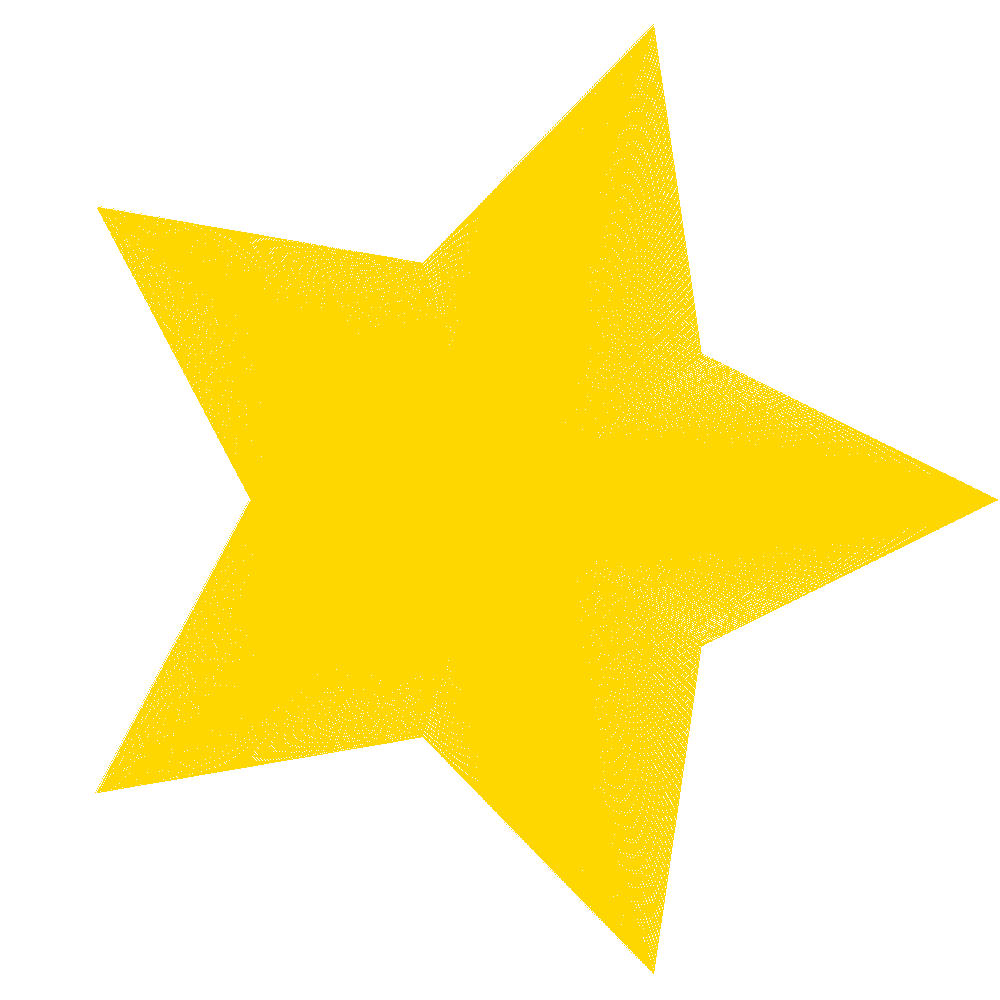
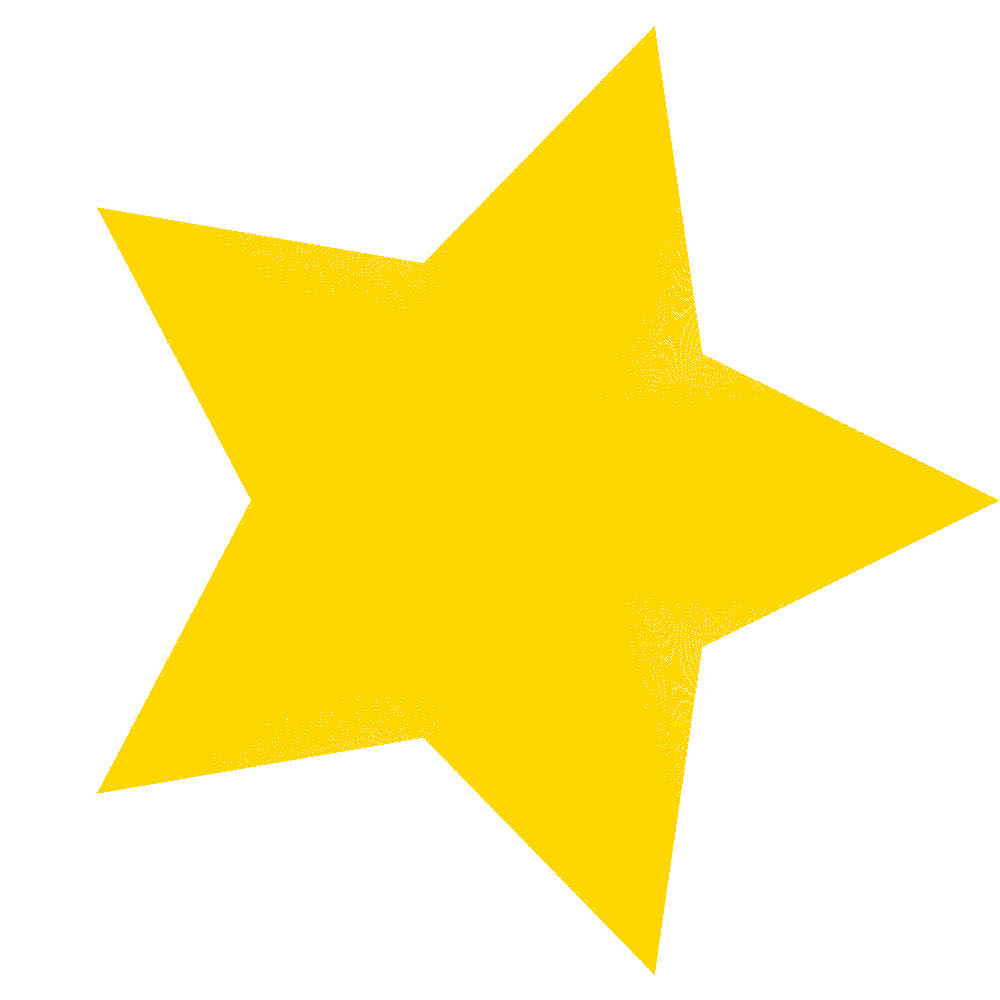
四捨五入する

diff --git a/main.go b/main.go
@@ -33,8 +33,9 @@ type Point struct {
 }
 
 type DrawPoint struct {
-	X int
-	Y int
+	X     int
+	Y     int
+	Color color.Color
 }
 
 func init() {
@@ -43,7 +44,7 @@ func init() {
 }
 
 // 2点を受け取ってその間の座標を返す
-func getCoordinates(x1, y1, x2, y2 float64) []DrawPoint {
+func getCoordinates(x1, y1, x2, y2 float64) []Point {
 	dx := x2 - x1
 	dy := y2 - y1
 
@@ -53,7 +54,7 @@ func getCoordinates(x1, y1, x2, y2 float64) []DrawPoint {
 	// ラジアン
 	radian := math.Atan2(dy, dx)
 
-	var points []DrawPoint
+	var points []Point
 	for l := 0.0; l < length; l++ {
 		// x座標とy座標を計算
 		x := x1 + l*math.Cos(radian)
@@ -61,7 +62,7 @@ func getCoordinates(x1, y1, x2, y2 float64) []DrawPoint {
 
 		// ビットマップ外の点は描写しない
 		if (x >= 0 && x < width) && (y >= 0 && y < height) {
-			points = append(points, DrawPoint{X: int(x), Y: int(y)})
+			points = append(points, Point{x, y})
 		}
 	}
 
@@ -124,6 +125,14 @@ func deleteDuplicate(old []DrawPoint) []DrawPoint {
 	return new
 }
 
+func convertPint2DrawPoint(points []Point, color color.Color) []DrawPoint {
+	var drawPoints []DrawPoint
+	for _, p := range points {
+		drawPoints = append(drawPoints, DrawPoint{int(math.Round(p.X)), int(math.Round(p.Y)), color})
+	}
+	return deleteDuplicate(drawPoints)
+}
+
 func main() {
 	m := image.NewRGBA(image.Rect(0, 0, int(width), int(height)))
 	draw.Draw(m, m.Bounds(), &image.Uniform{bgcolor}, image.ZP, draw.Src)
@@ -132,7 +141,7 @@ func main() {
 	pInside := pentagonInside()
 
 	// 星の外枠の座標を求める
-	var starOutsidePoints []DrawPoint
+	var starOutsidePoints []Point
 	for i := 0; i < len(pOutside); i++ {
 		starOutsidePoints = append(starOutsidePoints, getCoordinates(pOutside[i].X, pOutside[i].Y, pInside[i].X, pInside[i].Y)...)
 
@@ -143,20 +152,21 @@ func main() {
 			starOutsidePoints = append(starOutsidePoints, getCoordinates(pInside[i].X, pInside[i].Y, pOutside[i+1].X, pOutside[i+1].Y)...)
 		}
 	}
-	starOutsidePoints = deleteDuplicate(starOutsidePoints)
 
-	// 星の内側の座標を求める
-	var starInsidePoints []DrawPoint
+	// 雑に星の内側の座標を求める
+	var starInsidePoints []Point
 	for _, p := range starOutsidePoints {
-		starInsidePoints = append(starInsidePoints, getCoordinates(centerX, centerY, float64(p.X), float64(p.Y))...)
+		starInsidePoints = append(starInsidePoints, getCoordinates(centerX, centerY, p.X, p.Y)...)
 	}
-	starInsidePoints = deleteDuplicate(starInsidePoints)
 
-	for _, points := range starInsidePoints {
-		m.Set(points.X, points.Y, starColor)
+	insideDrawPoints := convertPint2DrawPoint(starInsidePoints, starColor)
+	for _, p := range insideDrawPoints {
+		m.Set(p.X, p.Y, p.Color)
 	}
-	for _, points := range starOutsidePoints {
-		m.Set(points.X, points.Y, linecolor)
+
+	outsideDrawPoints := convertPint2DrawPoint(starOutsidePoints, linecolor)
+	for _, p := range outsideDrawPoints {
+		m.Set(p.X, p.Y, p.Color)
 	}
 
 	file, err := os.Create(filename)
